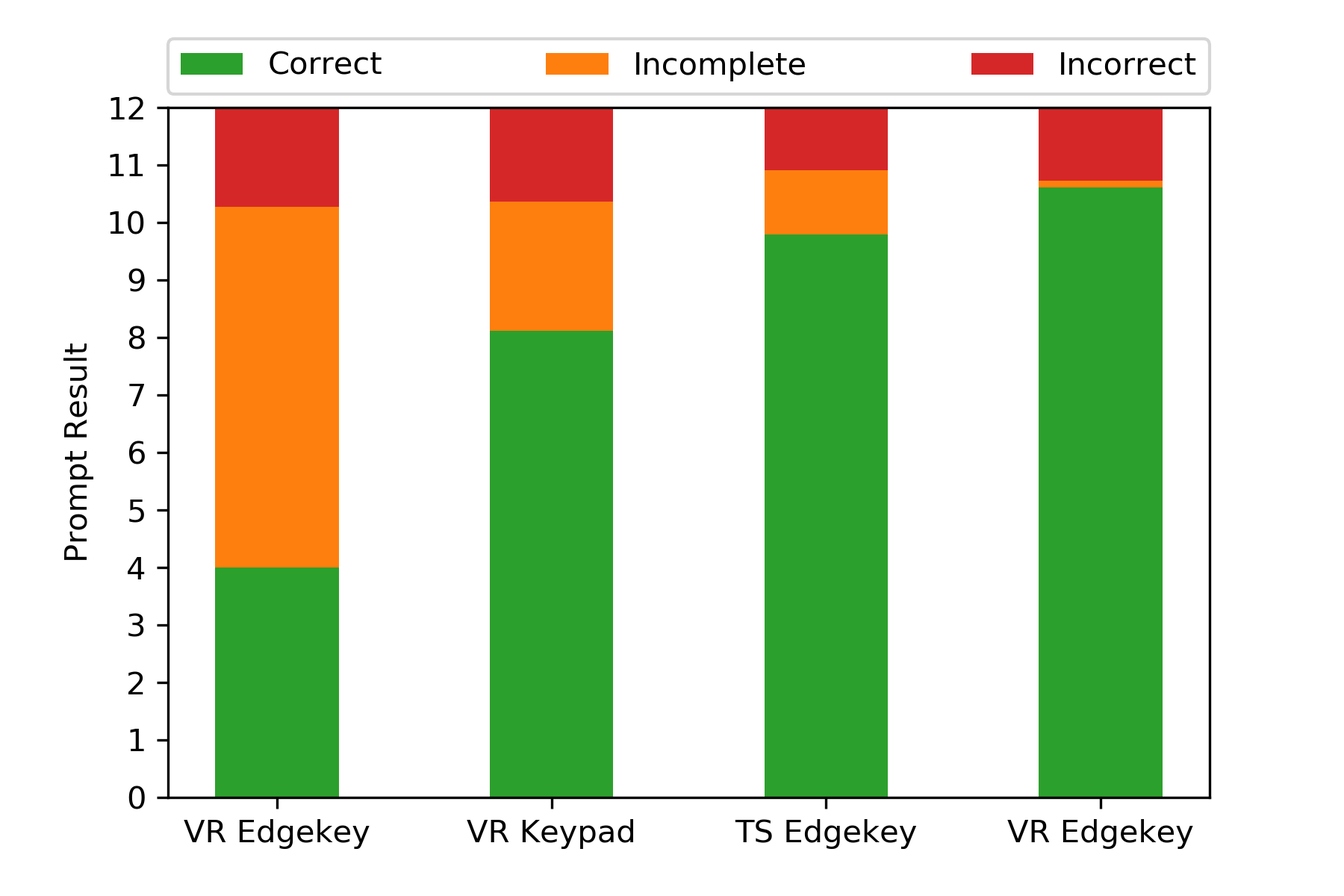
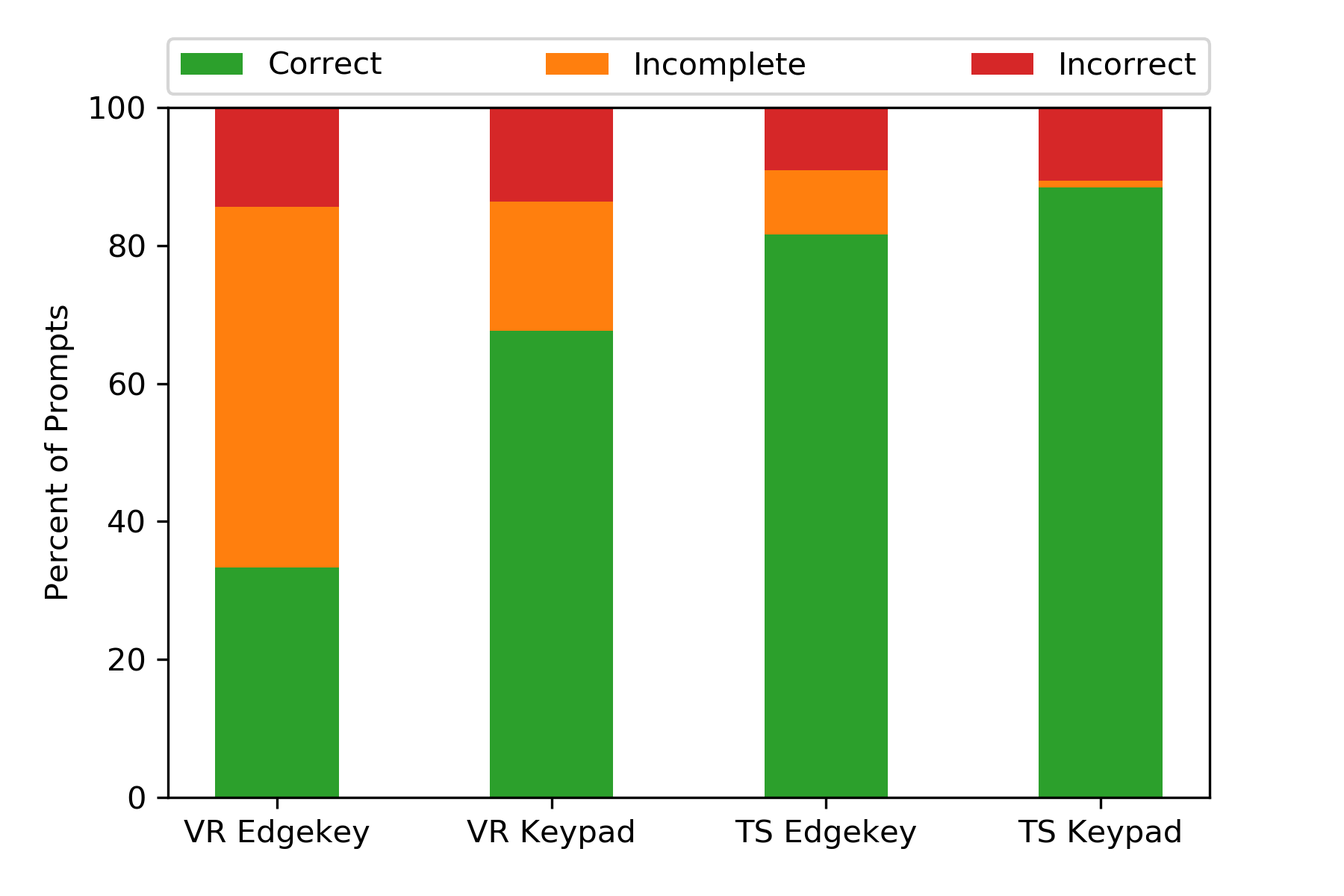
Chapter 5 edits complete
- fixes #13
- fixes #16
- fixes #24
- changes size of figures

diff --git a/chapters/design_exp.tex b/chapters/design_exp.tex
@@ -472,6 +472,7 @@ We aim to look for feedback that is unique to a certain group or feedback that r
 This will provide a summary of where the groups provide the same feedback and where they provide differing feedback.
 
 \subsection{Hypotheses}
+\label{sec:de_hypotheses}
 
 The main hypothesis of this experiment is that the use of a VR/R3C simulator will not affect the conclusions of a design evaluation study, compared to a traditional touchscreen simulator.
 We do expect that some of the dependent measures may have a significant difference in Group (one Group will perform a task better overall, no matter the Design) or a significant difference in Design (subjects will perform better with one Design, no matter the Group).
@@ -487,7 +488,7 @@ These hypotheses are enumerated here:
 \begin{enumerate}[label={H\arabic*.}]
     \item The tracking task RMSE will have no interaction effect between Group and Design
     \item The prompt response time will have no interaction effect between Group and Design
-    \item The number of correct prompts will have no interaction effect between Group and Design
+    \item The percent of correct prompts will have no interaction effect between Group and Design
     \item The NASA-TLX scores will have no interaction effect between Group and Design
     \item The tracking task RMSE for the last training trial and the tracking only trials will not change throughout the experiment
 \end{enumerate}
@@ -526,7 +527,7 @@ The task and experiment was designed with this in mind and mitigated through tra
 
 \begin{figure}
     \centering
-    \includegraphics[width=4.0in]{{rmse.4.0x4.0}.png}
+    \includegraphics[width=5.0in]{{rmse.3.0x1.5}.png}
     \caption{Factor Plot of RMSE}
     \label{fig:de_factor_rmse}
 \end{figure}
@@ -542,7 +543,11 @@ The effect of Design indicated a marginally significant difference ($F(1, 21) = 
 The only change in the tracking task display between the two instrument designs is a small change in position.
 It moves from being on the left side for the Keypad to the middle for the Edgekey.
 Since there was no change otherwise, this suggests that any difference on the tracking task performance between the designs would be related to additional workload from the prompting task.
+
+The main hypothesis (H1.\ The tracking task will have no interaction effect between Group and Design) was supported by the statistical test.
 The interaction effect was not significant ($F(1, 21) = 0.17, p=0.69$).
+This indicates that even though the VR group had a higher RMSE overall, the difference between designs was consistent between the groups.
+An evaluation session performed with only the VR system would find the same difference between designs with the RMSE measure as a traditional simulator.
 
 If the visual acuity was the only factor affecting performance between groups, we would expect to see a similar effect for the trials where the subjects were only performing the tracking task.
 The subjects ran a single trial that was just the tracking task without the prompting task at the end of each evaluation session.
@@ -554,7 +559,7 @@ This indicates that when the subjects were focused on the single task, they were
 
 \begin{figure}
     \centering
-    \includegraphics[width=4.0in]{{rmse_tracking_trials.4.0x4.0}.png}
+    \includegraphics[width=5.0in]{{rmse_tracking_trials.3.0x1.5}.png}
     \caption{Factor Plot of RMSE for Tracking Only Trials}
     \label{fig:de_factor_rmse_tracking_only}
 \end{figure}
@@ -578,7 +583,7 @@ After filtering, 885 of the total 1700 prompts recorded for the Edgekey design w
 
 \begin{figure}
     \centering
-    \includegraphics[width=4.0in]{{reaction_time.4.0x4.0}.png}
+    \includegraphics[width=5.0in]{{reaction_time.3.0x1.5}.png}
     \caption{Factor Plot of Response Time}
     \label{fig:de_factor_response}
 \end{figure}
@@ -601,33 +606,37 @@ As described above, the need for an additional switch press before the first pro
 Even though the physical requirements were filtered out, subjects still need to verify that the labels are in the correct state for starting entry.
 Since the Edgekey design had more time pressure due to the need for the switch key, subjects could have learned to respond quicker to adapt for this.
 However, these differences in the design did not appear to have a significant effect on the response time.
-Finally, the interaction effect was not significant ($F(1, 21) = 0.001, p = 0.96$).
 
-\subsubsection{Correct Prompts}
+Finally, the interaction effect was not significant ($F(1, 21) = 0.001, p = 0.96$), supporting the hypothesis (H2.\ The prompt response time will have no interaction effect between Group and Design).
+Unlike with the RMSE, however, we did not see a difference between groups or designs.
+This indicates that for a task that includes a large cognitive workload, the performance measures may provide the same result with a VR system than would be expected with a traditional simulator.
+
+\subsubsection{Prompt Completion Accuracy}
 
 \begin{figure}
     \centering
-    \includegraphics[width=4.0in]{{correct_prompts.4.0x4.0}.png}
+    \includegraphics[width=5.0in]{{correct_prompts.3.0x1.5}.png}
     \caption{Factor Plot of Percent of Correct Prompts per Trial}
     \label{fig:de_factor_correct}
 \end{figure}
 
 The second measure of the prompting task is the accuracy of the subjects in correctly completing the prompt.
-% add figure ref
 The prompt task consists of two sequential components: memory and execution.
 First, they must remember the prompt as they enter it, and second, they must be able to physically press the buttons within the seven second response window.
-For the statistical test, we are using the count of how many prompts each subject completed successfully per trial.
+For the statistical test, we are using the percent of how many prompts each subject completed successfully per trial.
 Among the incorrect prompts, we can differentiate between whether the subject entered the prompt incorrectly (failure to remember the prompt) or whether the subject ran out of time (failure to physically press the buttons).
-These counts are reported to help analyze the results, but are not used in the statistical tests.
+These are reported to help analyze the results, but are not used in the statistical tests.
 There were 12 prompts per trial, and every subject completed three trials for each design.
 
-The number of correct prompts had a significant interaction effect between group and design ($F(1, 21) = 27.8, p < 0.001$), meaning the main effects must be interpreted with the post-hoc tests as well.
+The percent of correct prompts are reported on here, shown for each Group and Design in Figure~\ref{fig:de_factor_correct}.
+The percent of correct prompts had a significant interaction effect between group and design ($F(1, 21) = 27.8, p < 0.001$), meaning the main effects must be interpreted with the post-hoc tests as well.
+This is the first dependent measure that rejects the null hypothesis (H3.\ The percent of correct prompts will have no interaction effect between Group and Design).
 Both main effects were significant, the effect of group yielded an $F$ ratio of $F(1, 21) = 43.9, p < 0.001$ while the effect of design yielded an $F$ ratio of $F(1, 21) = 64.1, p < 0.001$.
 
-For the effect of design on the VR group, the repeated measured t-test indicated a significant difference ($t(11) = 8.0, p < 0.001$) between the Keypad ($M = 8.11, \sigma = 1.62$) and the Edgekey ($M = 4.00, \sigma = 2.37$)
-The TS group had a marginally significant difference ($t(10) = 2.28, p = 0.045$) between Keypad ($M = 10.6, \sigma = 0.96$) and the Edgekey ($M = 9.82, \sigma = 1.38$).
+For the effect of design on the VR group, the repeated measured t-test indicated a significant difference ($t(11) = 8.0, p < 0.001$) between the Keypad ($M = 67.6\%, \sigma = 13.47\%$) and the Edgekey ($M = 33.3\%, \sigma = 19.8\%$)
+The TS group had a marginally significant difference ($t(10) = 2.28, p = 0.045$) between Keypad ($M = 88.4\%, \sigma = 8.0\%$) and the Edgekey ($M = 81.6\%, \sigma = 11.7\%$).
 These results indicate that both groups had trouble with the additional time pressure caused by the Edgekey design requiring the use of the switch key.
-The TS group performed closer to their performance in the Keypad design, however, with only about 1 fewer prompts correct on average.
+The TS group performed closer to their performance in the Keypad design, however, with only about 1 fewer prompts correct on average (6.8\%).
 The VR group had much more difficulty in the Edgekey design, correctly completing about half as many as they completed in the Keypad design.
 They also had more difficulty in both designs compared to the TS group.
 
@@ -640,11 +649,11 @@ They also had more difficulty in both designs compared to the TS group.
 
 The post-hoc test for differences between groups within each design also found that for both designs the VR group had more difficulty.
 These tests had significant effects for both the Keypad design ($t(21) = 4.44, p < 0.001$) between the VR group and the TS group, and the Edgekey design ($t(21) = 7.05, p < 0.001$) between the VR group and the TS group.
-The main effect of group clearly has a meaningful effect, which found the VR group ($M = 6.05, \sigma = 2.88$) had significantly fewer correct prompts than the TS group ($M = 10.2, \sigma = 1.2$).
+The main effect of group clearly has a meaningful effect, which found the VR group ($M = 50.5\%, \sigma = 24.1\%$) had significantly fewer correct prompts than the TS group ($M = 85.0\%, \sigma = 10.4\%$).
 This difference is largely due to subjects not being able to complete the prompt.
 Figure~\ref{fig:de_correct_stacked} shows the breakdown of the mean result of each trial for each group and design.
 
-Across all groups and designs, between one and two prompts on average were incorrectly completed in each trial.
+Across all groups and designs, between one and two prompts on average were incorrectly completed in each trial (between 9.4\% and 14.4\%).
 Most of the difference in number completed correctly is due to the incomplete prompts.
 A major contributing factor for this could be the method of button activation used for the VR group combined with the time pressure.
 Another contribution could be the limitations of the hand tracker.
@@ -652,11 +661,18 @@ When the hand tracker lost tracking or gave bad information, it became hard or i
 When this happened in the middle of a prompt, the amount of time it took to recover from the bad tracking would lead to a timeout on the prompt entry, causing an incomplete prompt.
 The variance of number correct was also much larger in in the VR group, which could be caused by some subjects adapting to the unfamiliar VR environment more rapidly.
 
+For this dependent measure, the null interaction effect hypothesis was rejected.
+We expect that this was caused by the time pressure and the additional work required to activate the buttons in the VR system.
+This was not completely unexpected as we have seen in previous experiments time penalty of using the hand tracker for pressing buttons in the VR system.
+An evaluation study which requires time pressured button entry may not get the same results using a VR system due to this limitation.
+However, in our case the same effect was found between designs within each group.
+The interaction effect existed because the VR group found the Edgekey design more challenging compared to the Keypad than the TS group did.
+
 \subsubsection{NASA-TLX}
 
 \begin{figure}
     \centering
-    \includegraphics[width=4.0in]{{tlx.4.0x4.0}.png}
+    \includegraphics[width=5.0in]{{tlx.3.0x1.5}.png}
     \caption{Factor Plot of NASA-TLX}
     \label{fig:de_factor_tlx}
 \end{figure}
@@ -677,6 +693,11 @@ The effect of group was not shown to be significant in the ANOVA analysis, but t
 With the Keypad design, The effect of group was not significant ($t(21) = -1.13, p=0.27$) between VR ($M = 54.4, \sigma = 20.4$) and TS ($M = 61.5, \sigma = 4.46$).
 These tests further illustrate that the VR group found a higher workload for the Edgekey design specifically, as both groups rated the workload in the Keypad design similarly.
 
+The subject perceived workload scores rejected the null interaction hypothesis (H4.\ The NASA-TLX scores will have no interaction effect between Group and Design).
+In this case, the effects changed between the groups.
+The VR group reported significantly more workload for the Edgekey design, while the TS group reported only a marginal increase.
+We expect that this change was likely due to the increased work required to complete the prompt, the same reason for the change in the prompt accuracy measure which also rejected the null hypothesis.
+
 \subsubsection{Tracking Task Learning}
 
 Throughout the experiment the subjects performed trials with only the tracking task, instead of both the tracking task and the prompting task.
@@ -689,12 +710,12 @@ The RMSE of the tracking only trials, by Group and trial number, is shown in Fig
 
 \begin{figure}
     \centering
-    \includegraphics[width=4.0in]{{training_rmse.4.0x4.0}.png}
-    \caption{Factor Plot of RMSE for Tracking Only Trials}
+    \includegraphics[width=5.0in]{{training_rmse.3.0x1.5}.png}
+    \caption{RMSE for Tracking Only Trials by Group and Design}
     \label{fig:de_factor_training}
 \end{figure}
 
-The two-way ANOVA found Group to be a marginally significant factor ($F(1, 21) = 4.94, p=0.37$) between the VR Group ($M=1.36, \sigma=0.51$) and the TS Group ($M=0.94, \sigma=0.43$).
+The two-way ANOVA found Group to be a marginally significant factor ($F(1, 21) = 4.94, p=0.037$) between the VR Group ($M=\ang{1.36}, \sigma=\ang{0.51}$) and the TS Group ($M=\ang{0.94}, \sigma=\ang{0.43}$).
 The effect of group on the tracking task was already established, so the marginal significance found here is not unexpected.
 Trial number was found to have no significant effect ($F(1, 21)=3.65, p=0.069$) between the three trials.
 The means of the three trials, in order, are \ang{1.23} ($\sigma=\ang{0.54}$), \ang{1.18} ($\sigma=\ang{0.51}$), and \ang{1.07} ($\sigma=\ang{0.51}$).
@@ -702,17 +723,23 @@ Even though the statistical test indicates no significance, the means do decreas
 This combined with the large variance suggest that some subjects were potentially experiencing some training effects, but overall the effect of training is not statistically significant.
 The interaction effect of Group and trial number had no significance ($F(1, 21) = 0.16, p=0.69$).
 
+The final hypothesis (H5.\ The tracking task RMSE for the last training trial and the tracking only trials will not change throughout the experiment) was supported by these results.
+We found that the subjects did not experience significant training in the tracking task throughout the experiment.
+
 \subsubsection{Summary}
 
 A summary of the significance results from the ANOVA and post-hoc t-tests for all the performance measures are shown in Table \ref{tab:de_anova}.
 The significance is indicated by `$*$' for $p<0.01$, `+' for $0.01<p<0.05$, and `-' for no significance.
 For the measures with significant interaction effect, the post-hoc t-tests are shown per group and per design.
+We found no interaction effect with the tracking task RMSE and prompting task Response Time, supporting the first two hypotheses from Section~\ref{sec:de_hypotheses} (H1 and H2).
+The prompting task accuracy (Correct Prompts) and the workload (NASA-TLX) both rejected the no interaction effect hypotheses (H3 and H4).
+We attribute the interaction effects found in those two dependent measures to be related to the increase in difficulty to activate buttons using the hand tracker.
 The results will be discussed further (Section~\ref{sec:de_discussion}) after reporting on the results of the feedback questions.
 
 \begin{table}
     \centering
     \includetable{de_anova_summary.tex}
-    \caption{Statistical Significance Test Results. `$*$' indicates significance at the $p<0.01$ level, `+' indicates marginally significant ($0.01<p<0.05$), and `-' indicates no significance.}
+    \caption{Statistical Significance Test Results. `$*$' indicates significance at the $p<0.01$ level, `+' indicates marginally significant ($0.01<p<0.05$), and `-' indicates no significance. Hypotheses are from Section~\ref{sec:de_hypotheses}, which stated that the dependent measure has no interaction effect.}
     \label{tab:de_anova}
 \end{table}
 
@@ -788,6 +815,35 @@ In the other designs and groups this happened to only one or two subjects.
 \section{Discussion}
 \label{sec:de_discussion}
 
+%The effect of Group on the tracking task performance was expected as the visual resolution of the tracking display was diminished in the VR head-mounted display.
+
+Our results suggest that tasks or performance measures which are dominated by a cognitive portion, such as the prompt response time, provide similar results.
+Tasks which rely on visual resolution or time pressured responses may not produce the same results between designs using the R3C system.
+None of the effects reversed slope between designs, however, and the only change is in magnitude of the effect.
+In fact, for both the number of prompts correct and the workload ratings, which had significant interaction effects, the use of the VR system amplified the effect of design within the groups from a marginally significant effect to a significant effect.
+
+Many design evaluation studies would be concluded with both paper questionnaires as well as open interviews to receive the feedback from the subject.
+Our experimental design avoided the use of the interview for two reasons.
+First, since our subjects were not subject domain experts or experienced evaluators, we wanted to ensure that the prompting of the questions were consistent.
+Second, the primary goal of the design feedback for this experiment was not to evaluate the designs, but rather to compare evaluations.
+The use of a proctor interviewing the subjects could introduce accidental bias into the responses of the subjects.
+This can often be useful when evaluating a new interface, for example, an interviewer could ask subjects about a flaw they had not mentioned yet to determine if they did not notice it or did not care about it.
+However, in our case, we omitted this additional information to ensure no bias was introduced in the collection of their opinions.
+
+Our initial motivation is to provide a virtual reality simulator to be used with an existing mockup.
+In this experiment, we compared the performance of a touchscreen simulation to the use of our R3C system.
+A touchscreen simulation is a higher fidelity simulation than what may exist during the mockup phase.
+Our goal in this experiment was to show that the R3C system could provide the same feedback from a higher fidelity simulation.
+This provides motivation for using the R3C system earlier in the design process (during the mockup phase).
+Our results indicate that the VR/R3C system does provide the same feedback from evaluations, and dependent measures will transfer favorably except for time-pressured dependent measures.
+
+This was a limited study of the utility of VR/R3C for design evaluation purposes.
+The task and instrument design was kept simple in nature for this study in order to limit the amount of confounding variables as well as keep it easy to learn for the subject population.
+Future studies could investigate this system in a more involved design study, with multiple instruments or designs, or more complex behavior in the cockpit.
+At this point, it would become more essential to use subject domain experts (i.e.\ experienced pilots) in order to validate these results.
+
+\section{Conclusion}
+
 The motivation of this experiment was to determine the differences between using an R3C simulator system and a traditional simulator system to perform a design evaluation experiment.
 We had two groups of subjects perform the same evaluation task on two different designs of a cockpit instrument, one group using the R3C system and the other a touchscreen system.
 The evaluation task included two simultaneous tasks: a pitch disturbance tracking task with their left hand and a call and response prompting task with their right hand.
@@ -800,42 +856,21 @@ Design is a within subjects factor, and is the instrument design the subject was
 The VR Group had worse performance than the TS Group with the RMSE of the tracking task.
 Subjects from both groups had a marginally significant difference in tracking task performance due to Design, with subjects performing better with the Keypad design.
 It was also shown that, on control trials that had only the tracking task (no prompting task), the effect of Group was reduced to marginally significant.
-
 The response time of the prompting task had no significant effect based on Group nor Design.
-Neither of these two previous measures had interaction effects between Group and Design.
-The number of correct prompts had a significant interaction effect.
-While the TS Group was able to complete significantly more prompts correctly overall than the VR group (averages of 10.2 vs.\ 6.1, respectively) the VR group had a significant effect with the Design and the TS group only had marginal significance.
-This interaction can be clearly seen in the factor plot of correct prompts (Figure~\ref{fig:de_factor_correct}).
-The NASA-TLX workload scores also showed an interaction effect between Group and Design.
-The TLX scores for the VR group showed a significant effect in Design, with subjects rating the Edgekey design over 30 points higher than the Keypad design (averages of 54.4 to 85.6, respectively).
-However, like the number of correct prompts, the TLX score was found to be only marginally significant for the TS group, rating the Keypad at 61.5 compared to the Edgekey at 69.2.
+Neither the RMSE nor the response time had interaction effects between Group and Design.
+This indicates that the differences in these two dependent measures would be found whether the evaluation was performed using the VR/R3C system or the touchscreen system.
 
-%The effect of Group on the tracking task performance was expected as the visual resolution of the tracking display was diminished in the VR head-mounted display.
-
-Our results suggest that tasks or performance measures which are dominated by a cognitive portion, such as the prompt response time, provide similar results.
-Tasks which rely on visual resolution or time pressured responses may not produce the same results between designs using the R3C system.
-None of the effects reversed slope between designs, however, and the only change is in magnitude of the effect.
-In fact, for both the number of prompts correct and the workload ratings, which had significant interaction effects, the use of the VR system amplified the effect of design within the groups from a marginally significant effect to a significant effect.
+The percent of correct prompts and NASA-TLX workload score did have a significant interaction effect between Group and Design.
+The TS Group was able to complete significantly more prompts correctly overall than the VR Group, but the VR Group had a significant effect with Design and the TS Group only had a marginally significant effect.
+The TLX scores for the VR Group showed a significant effect in Design, with subjects rating the Edgekey design over 30 points higher than the Keypad design (averages of 54.4 to 85.6, respectively).
+However, like the percent of correct prompts, the TLX score was found to be only marginally significant for the TS group, rating the Keypad at 61.5 compared to the Edgekey at 69.2.
+We attribute the rejection of the null interaction hypotheses to the increased workload of activating buttons in the R3C system coupled with the time pressures of the prompting task.
 
 The results of the subjective feedback analysis found that there was no omission of major feedback items on the design of the two instruments from either group.
 The only feedback comments that did not transfer were the fatigue issues, and technology-specific issues.
 We did discover that some issues were mentioned at differing frequencies, which is to say, one group would have more subjects mention it than the other.
 These results suggest that the use of the R3C system for receiving feedback from a design would be appropriate.
 
-Many design evaluation studies would be concluded with both paper questionnaires as well as open interviews to receive the feedback from the subject.
-Our experimental design avoided the use of the interview for two reasons.
-First, since our subjects were not subject domain experts or experienced evaluators, we wanted to ensure that the prompting of the questions were consistent.
-Second, the primary goal of the design feedback for this experiment was not to evaluate the designs, but rather to compare evaluations.
-The use of a proctor interviewing the subjects could introduce accidental bias into the responses of the subjects.
-This can often be useful when evaluating a new interface, for example, an interviewer could ask subjects about a flaw they had not mentioned yet to determine if they did not notice it or did not care about it.
-However, in our case, we omitted this additional information to ensure no bias was introduced in the collection of their opinions.
-
-This was a limited study of the utility of VR/R3C for design evaluation purposes.
-The task and instrument design was kept simple in nature for this study in order to limit the amount of confounding variables as well as keep it easy to learn for the subject population.
-Future studies could investigate this system in a more involved design study, with multiple instruments or designs, or more complex behavior in the cockpit.
-At this point, it would become more essential to use subject domain experts (i.e.\ experienced pilots) in order to validate these results.
-
-%\section{Conclusion}
 %
 %We found that although some performance measures were lower in the R3C environment
 %There was no significant interaction for the root mean square error (RMSE) of the tracking task.

diff --git a/tables/de_anova_summary.tex b/tables/de_anova_summary.tex
@@ -1,12 +1,18 @@
 \begin{tabular}{@{}lcccc@{}}
 \toprule
                 & \multicolumn{4}{c}{ANOVA} \\
-                & Group & Design & \multicolumn{2}{c}{Group:Design (Interaction)}\\
+                %& Group & Design & \multicolumn{2}{c}{Group:Design (Interaction)}\\
+                & Group & Design & Group:Design & Hypothesis\\
+                & & & (Interaction) & \\
 \midrule
-Tracking RMSE   & $*$ &  +  & \multicolumn{2}{c}{ - } \\
-Response Time   &  -  &  -  & \multicolumn{2}{c}{ - } \\
-Prompts Correct & $*$ & $*$ & \multicolumn{2}{c}{$*$} \\
-NASA-TLX        &  -  & $*$ & \multicolumn{2}{c}{$*$} \\
+%Tracking RMSE   & $*$ &  +  & \multicolumn{2}{c}{ - } \\
+%Response Time   &  -  &  -  & \multicolumn{2}{c}{ - } \\
+%Prompts Correct & $*$ & $*$ & \multicolumn{2}{c}{$*$} \\
+%NASA-TLX        &  -  & $*$ & \multicolumn{2}{c}{$*$} \\
+Tracking RMSE   & $*$ &  +  &  -  & H1 Supported\\
+Response Time   &  -  &  -  &  -  & H2 Supported\\
+Correct Prompts & $*$ & $*$ & $*$ & H3 Rejected\\
+NASA-TLX        &  -  & $*$ & $*$ & H4 Rejected\\
 \midrule
                 & \multicolumn{4}{c}{t-tests} \\
                 & \multicolumn{2}{c}{Design} & \multicolumn{2}{c}{Group} \\

diff --git a/tables/correct_means.tex b/tables/correct_means.tex
@@ -2,13 +2,13 @@
 \toprule
 Group &   Design &    Mean &  Std. Dev. \\
 \midrule
-   TS &      --- &  $10.2$ &    $1.242$ \\
-   VR &      --- & $6.056$ &    $2.889$ \\
-  --- &  Edgekey & $6.768$ &    $3.525$ \\
-  --- &   Keypad & $9.304$ &    $1.831$ \\
-   VR &  Edgekey &     $4$ &     $2.37$ \\
-   VR &   Keypad & $8.111$ &    $1.616$ \\
-   TS &  Edgekey & $9.788$ &    $1.393$ \\
-   TS &   Keypad & $10.61$ &    $0.964$ \\
+   TS &      --- & $84.97$ &    $10.35$ \\
+   VR &      --- & $50.46$ &    $24.07$ \\
+  --- &  Edgekey &  $56.4$ &    $29.38$ \\
+  --- &   Keypad & $77.54$ &    $15.26$ \\
+   VR &  Edgekey & $33.33$ &    $19.75$ \\
+   VR &   Keypad & $67.59$ &    $13.47$ \\
+   TS &  Edgekey & $81.57$ &    $11.61$ \\
+   TS &   Keypad & $88.38$ &    $8.033$ \\
 \bottomrule
 \end{tabular}
